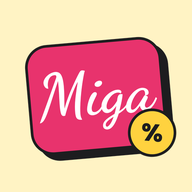
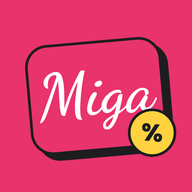
Miga Promo: ícone com fundo rosa para esconder o contorno da abertura (abertura continua creme)
Claude-Session: https://claude.ai/code/session_01FJ6kf7mxY8SD9wfrPkJE7i

diff --git a/miga/sw.js b/miga/sw.js
@@ -4,7 +4,7 @@
  * para conviver com outros apps no mesmo domínio (ClockFit, Sort.IA...).
  * Estratégia "rede primeiro": pega a versão nova e, offline, usa a cópia.
  */
-const VERSAO = "miga-promo-v17";
+const VERSAO = "miga-promo-v18";
 const BASE = new URL("./", self.location).pathname; // ex.: "/miga/"
 const ARQUIVOS = ["./", "index.html", "style.css?v=15", "app.js?v=15", "firebase-config.js?v=15", "manifest.json", "favicon.png", "logo.png?v=15", "icone-192.png?v=15", "icone-512.png?v=15", "apple-touch-icon.png"];
 

diff --git a/miga/index.html b/miga/index.html
@@ -11,7 +11,7 @@
   <meta name="apple-mobile-web-app-capable" content="yes">
   <meta name="apple-mobile-web-app-status-bar-style" content="default">
   <meta name="apple-mobile-web-app-title" content="Miga Promo">
-  <link rel="manifest" href="manifest.json?v=17">
+  <link rel="manifest" href="manifest.json?v=18">
   <link rel="icon" type="image/png" href="favicon.png">
   <link rel="apple-touch-icon" href="apple-touch-icon.png">
   <link rel="preconnect" href="https://fonts.googleapis.com">
